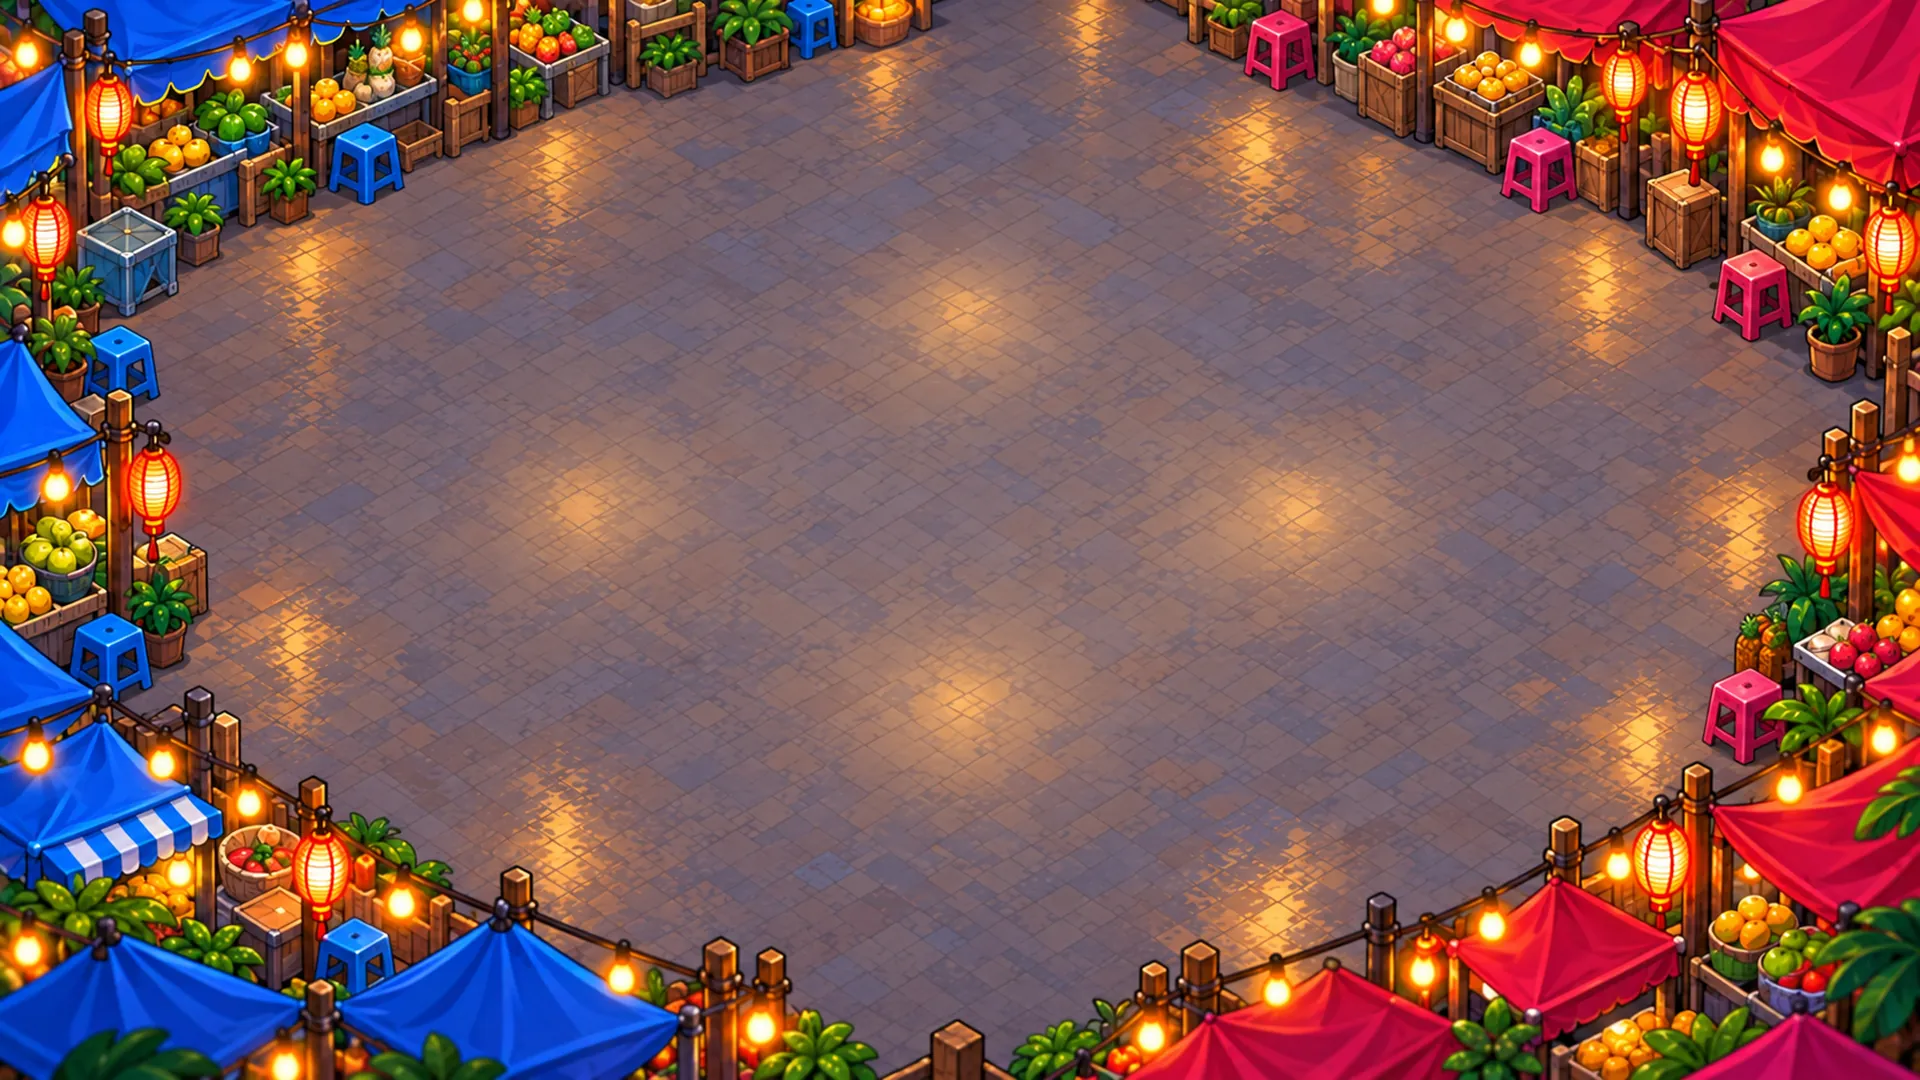
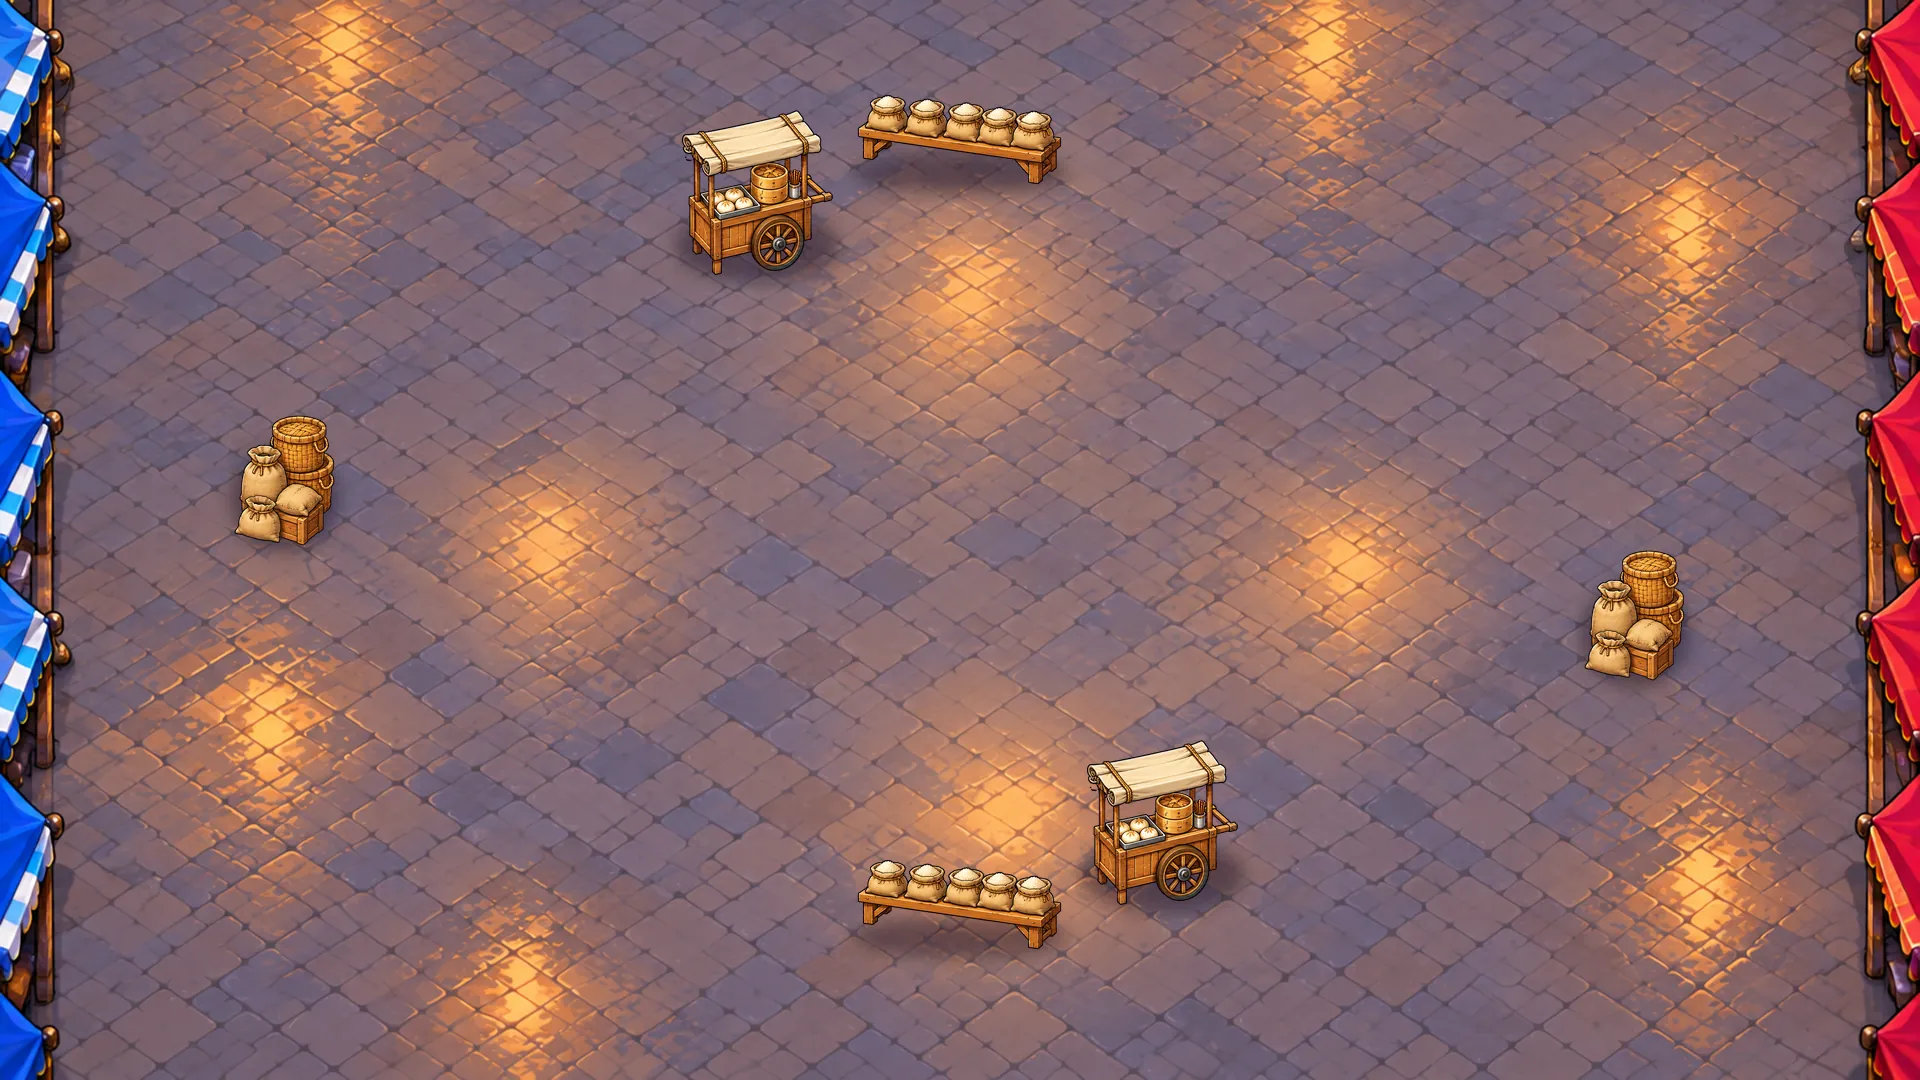
assets: arena v2 — open floor over the whole 40x24 world, obstacle props drawn on map.ts OBSTACLES

diff --git a/tools/art/compose_arena.py b/tools/art/compose_arena.py
@@ -1,0 +1,45 @@
+"""Compose the arena background: painted empty floor + obstacle props on the sim's OBSTACLES.
+
+Usage: compose_arena.py FLOOR.png OBSTACLES.png OUT.png  (then save OUT as public/art/arena_market.webp, q80)
+FLOOR fills the whole 40x24 world (side awnings stay in the letterbox margins); OBSTACLES is a magenta-key sheet
+of three props (bench, cart, basket stack). Positions below MUST match packages/sim/src/map.ts OBSTACLES.
+"""
+import sys
+import numpy as np
+from PIL import Image
+from scipy import ndimage as ndi
+floor_p, obs_p, out = sys.argv[1:4]
+W,H=1920,1080; S=H/24; OX=(W-40*S)/2
+floor=Image.open(floor_p).convert('RGB').resize((W,H),Image.LANCZOS).convert('RGBA')
+a=np.asarray(Image.open(obs_p).convert('RGB')).astype(int)
+d=np.sqrt(((a-[255,0,255])**2).sum(-1))
+cand=d<90
+lab,_=ndi.label(cand)
+border=set(np.unique(np.concatenate([lab[0],lab[-1],lab[:,0],lab[:,-1]])))-{0}
+bg=np.isin(lab,list(border))
+bg|=(np.minimum(a[...,0],a[...,2])-a[...,1])>70
+fg=~bg
+fg=ndi.binary_opening(fg,iterations=2)
+lab,n=ndi.label(ndi.binary_dilation(fg,iterations=6))
+objs=sorted([(s,i+1) for i,s in enumerate(ndi.find_objects(lab))],key=lambda t:-(t[0][0].stop-t[0][0].start)*(t[0][1].stop-t[0][1].start))[:3]
+objs=sorted(objs,key=lambda t:t[0][1].start)
+rgba=np.dstack([a,(fg*255)]).astype(np.uint8)
+sprites=[]
+for sl,i in objs:
+    m=(lab[sl]==i)&fg[sl]; c=rgba[sl].copy(); c[...,3]=m*255
+    sprites.append(Image.fromarray(c))
+print([s.size for s in sprites])
+bench,cart,stack=sprites
+place=[((4,9,6,12),stack),((34,12,36,15),stack),((14,4,17,6),cart),((23,18,26,20),cart),((18,3,22,4),bench),((18,20,22,21),bench)]
+for (x0,y0,x1,y1),sp in place:
+    w=(x1-x0)*S*1.15; sc=w/sp.size[0]; h=sp.size[1]*sc
+    im=sp.resize((round(w),round(h)),Image.LANCZOS)
+    cx=OX+(x0+x1)/2*S; by=y1*S+0.15*S
+    # soft contact shadow
+    sh=Image.new('RGBA',im.size,(0,0,0,0)); 
+    from PIL import ImageDraw, ImageFilter
+    shl=Image.new('RGBA',(W,H),(0,0,0,0)); dd=ImageDraw.Draw(shl)
+    dd.ellipse([cx-w*0.52,by-(y1-y0)*S*0.75,cx+w*0.52,by+0.1*S],fill=(20,10,30,110))
+    floor=Image.alpha_composite(floor,shl.filter(ImageFilter.GaussianBlur(8)))
+    floor.alpha_composite(im,(round(cx-w/2),round(by-h)))
+floor.convert('RGB').save(out)

diff --git a/tools/art/README.md b/tools/art/README.md
@@ -6,6 +6,9 @@ Owner-approved concept sheets (2026-10-14) are cut into game files under `apps/c
   (frames `idle, run, carry, hurt`, 256 px cells, one scale per character, feet on a shared baseline, anchor in
   `manifest.json`); the props sheet (magenta key) becomes one trimmed WebP per prop; the arena becomes 1920x1080 WebP.
   Run with `PD=5` (prop separation dilation, tuned for the approved props sheet).
+- `compose_arena.py FLOOR OBSTACLES OUT` — arena v2 (owner choice A, 2026-10-15): the painted floor is open over the
+  whole 40x24 world and the six obstacle props are drawn exactly on `map.ts` `OBSTACLES`, so art matches walkability.
+  Sources: `~/Code/team-buddies-art-staging/arena-v2/`. Re-run it if `OBSTACLES` ever changes.
 - `contact.py OUT` — QA contact sheets on solid blue plus per-frame pixel stats.
 - Sources (not committed, 2+ MB each): `~/Code/team-buddies-art-staging/task7-w1/props.png`, `task7-w2/*.png`.
 - Needs Python with numpy, scipy, pillow (WebP).
